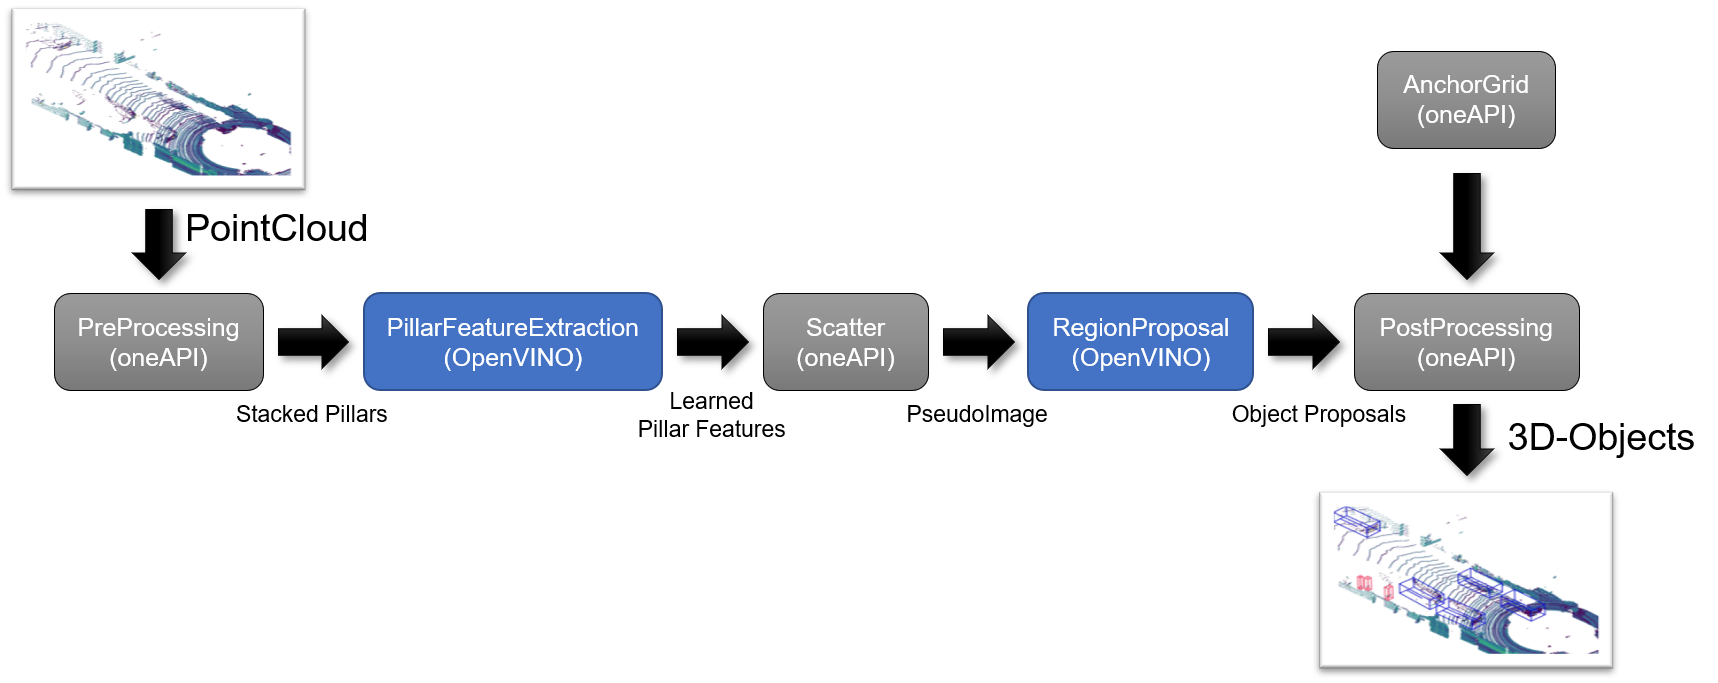
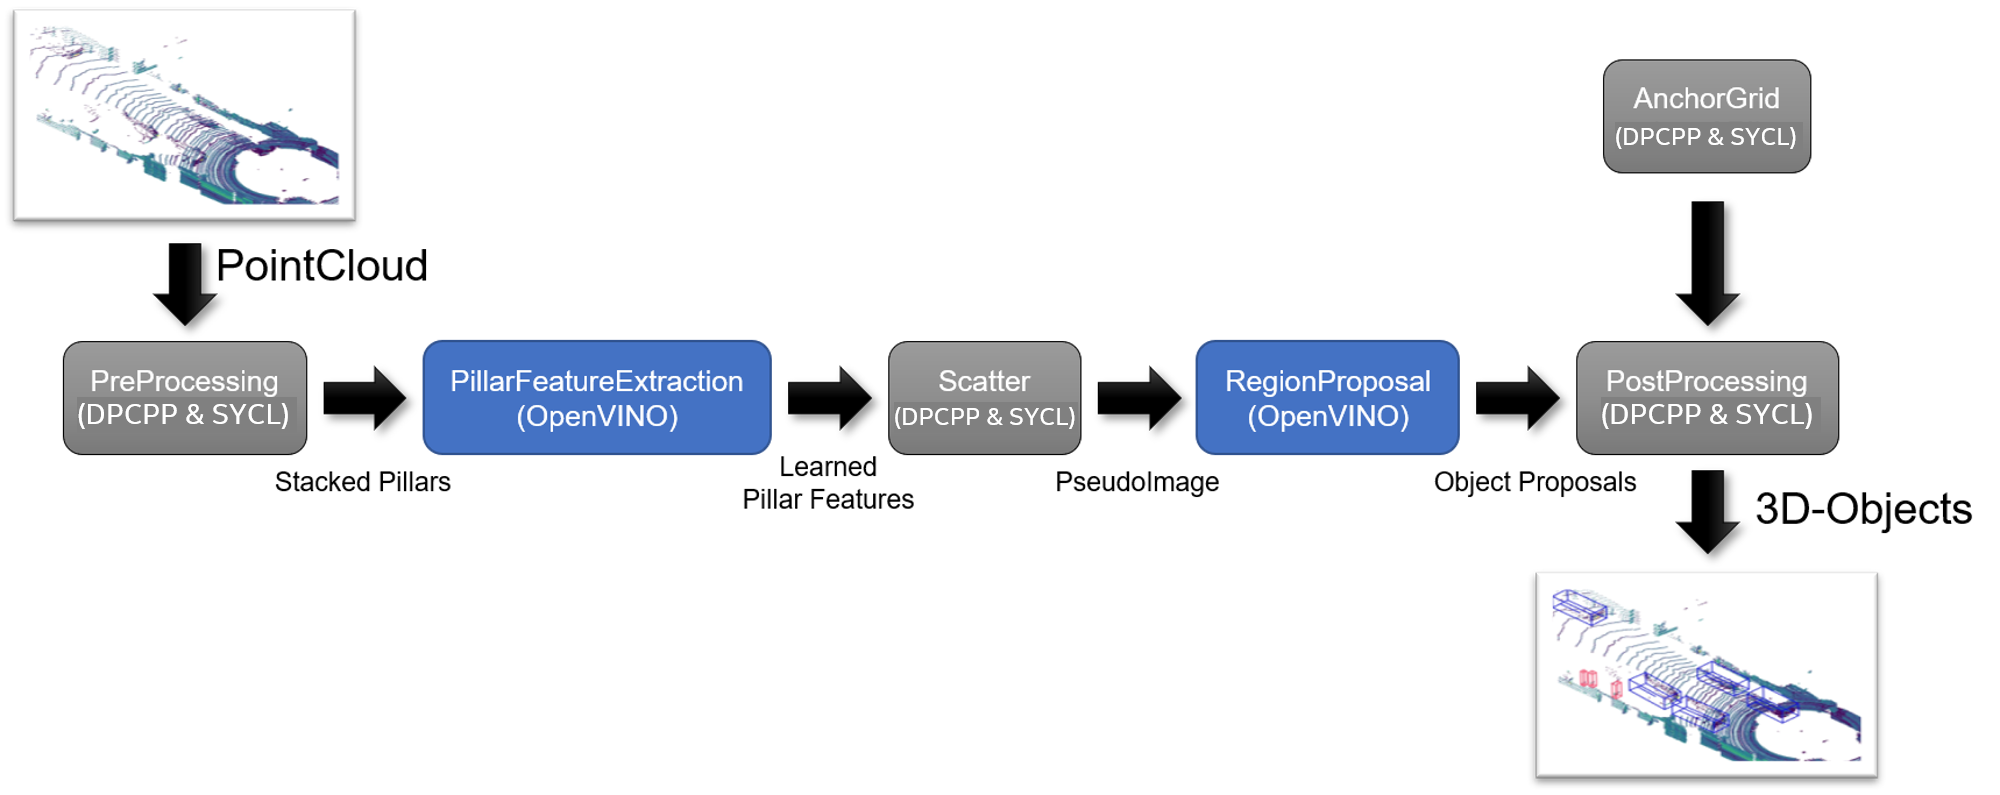
Updated README of PointPillars sample (#651)
* Updated README of PointPillars sample

Updated README of PointPillars sample

* Updated Overview Figure for PointPillars

diff --git a/AI-and-Analytics/End-to-end-Workloads/LidarObjectDetection-PointPillars/README.md b/AI-and-Analytics/End-to-end-Workloads/LidarObjectDetection-PointPillars/README.md
@@ -1,12 +1,12 @@
 # `PointPillars` Sample
-This sample performs 3D object detection and classification using data (point cloud) from a LIDAR sensor as input. The Intel® oneAPI implementation is based on the paper 'PointPillars: Fast Encoders for Object Detection from Point Clouds' [1] and the implementation in [2]. It shows how Intel® oneAPI kernels (using SYCL and DPCPP) can be used in combination with the Intel® Distribution of OpenVINO™ toolkit for CNN inference.
+This sample performs 3D object detection and classification using data (point cloud) from a LIDAR sensor as input. The Intel® oneAPI implementation is based on the paper 'PointPillars: Fast Encoders for Object Detection from Point Clouds' [1] and the implementation in [2]. It shows how DPCPP and SYCL kernels can be used in combination with the Intel® Distribution of OpenVINO™ toolkit, both part of Intel® oneAPI.
 
 | Optimized for                     | Description
 |:---                               |:---
 | OS                                | Linux* Ubuntu* 18.04
 | Hardware                          | Skylake with GEN9 or newer / Intel Xe Graphics
 | Software                          | Intel® oneAPI DPC++/C++ Compiler, Intel® Distribution of OpenVINO™ toolkit
-| What you will learn               | How to combine Intel® Distribution of OpenVINO™ toolkit and Intel® oneAPI to offload the computation of a complex workload to one of Intel's supported accelerators (e.g., GPU or CPU)
+| What you will learn               | How to combine Intel® Distribution of OpenVINO™ toolkit and Intel® oneAPI Base Toolkit to offload the computation of a complex workload to one of Intel's supported accelerators (e.g., GPU or CPU)
 | Time to complete                  | 30 minutes
 
 ## Purpose
@@ -14,18 +14,18 @@ PointPillars is an AI algorithm that uses LIDAR point clouds to detect and class
 
 ![Overview](data/point_pillars_overview.png)
 
-1. Pre-processing of the LiDAR input point cloud is performed. This is realized with the help of kernels implemented using Intel® oneAPI.
-2. An anchor grid is generated. The anchors in the grid are later used in object detection to refine detected boxes by the RegionProposalNetwork (RPN). The anchor grid generation is also implemented using Intel® oneAPI.
+1. Pre-processing of the LiDAR input point cloud is performed. This is realized with the help of kernels implemented using SYCL and DPCPP.
+2. An anchor grid is generated. The anchors in the grid are later used in object detection to refine detected boxes by the RegionProposalNetwork (RPN). The anchor grid generation is also implemented using SYCL and DPCPP.
 3. Afterward, the pre-processed data is used by a so-called Pillar Feature Extraction (PFE) CNN to create a 2D image-like representation of the sensor environment. For the inference, this sample uses the Intel® Distribution of OpenVINO™ toolkit. The output of this CNN is a list of dense tensors (learned pillar features).
-4. To convert these dense tensors into an pseudo-image, a scatter operation is performed. This operation is again realized with Intel® oneAPI.
+4. To convert these dense tensors into an pseudo-image, a scatter operation is performed. This operation is again realized with SYCL and DPCPP.
 5. This pseudo-image is consumed by the second CNN, the so-called Region Proposal Network (RPN). The inference is performed with the help of the Intel® Distribution of OpenVINO™ toolkit. The output is an unfiltered list of possible object detections, their position, dimensions and classifications.
-6. Finally, this output data (object list) is post-processed with the help of the anchors created in the 2nd step. The anchors are used to decode the object position, dimension and class. Afterwards, a Non-Maximum-Suppression (NMS) is used to filter out redundant/clutter objects. Finally, the objects are sorted according to their likelihood, and then provided as output. All of these steps are implemented as Intel® oneAPI kernels. 
+6. Finally, this output data (object list) is post-processed with the help of the anchors created in the 2nd step. The anchors are used to decode the object position, dimension and class. Afterwards, a Non-Maximum-Suppression (NMS) is used to filter out redundant/clutter objects. Finally, the objects are sorted according to their likelihood, and then provided as output. All of these steps are implemented as SYCL and DPCPP kernels. 
 
-By default, the application will use 'host' as the Intel® oneAPI execution device and CPU (single-threaded) for Intel® Distribution of OpenVINO™ toolkit inferencing part. The Intel® oneAPI execution device and the inferencing device are displayed in the output, along with the elapsed time of each of the five steps described above. For more details refer to section: [Execution Options for the Sample Program](#execution-options-for-the-sample-program).
+By default, the application will use 'host' as the execution device for SYCL/DPCPP kernels and CPU (single-threaded) for Intel® Distribution of OpenVINO™ toolkit inferencing part. The execution device and the inferencing device are displayed in the output, along with the elapsed time of each of the five steps described above. For more details refer to section: [Execution Options for the Sample Program](#execution-options-for-the-sample-program).
 
 ## Key Implementation Details
-This sample demonstrates a real-world, end-to-end example that uses a combination of Intel® oneAPI and the Intel® Distribution of OpenVINO™ to solve object detection's complex task in a given environment. Hence, this sample will give you insights into the following aspects:
- - You will learn how to transfer data from a oneAPI device/kernel to an OpenVINO-based inference task and back.
+This sample demonstrates a real-world, end-to-end example that uses a combination of Intel® oneAPI Base Toolkit (DPCPP, SYCL) and the Intel® Distribution of OpenVINO™ to solve object detection's complex task in a given environment. Hence, this sample will give you insights into the following aspects:
+ - You will learn how to transfer data from a DPCPP/SYCL device/kernel to an OpenVINO-based inference task and back.
  - You will learn how to implement a device manager that allows choosing the target hardware for execution, i.e., CPU, GPU or an accelerator, at runtime in a user transparent manner. As a result, the target hardware can be chosen via a command-line argument without requiring a time-consuming re-compilation (further details on the execution are provided below)
  - You will learn how to implement oneAPI-based function kernels that can be executed on the host system, on a multi-threaded CPU or a GPU.
  - You will learn how to implement standard algorithms for AI-based object detection, for example, _Non-Maximum-Suppression_, using oneAPI.
